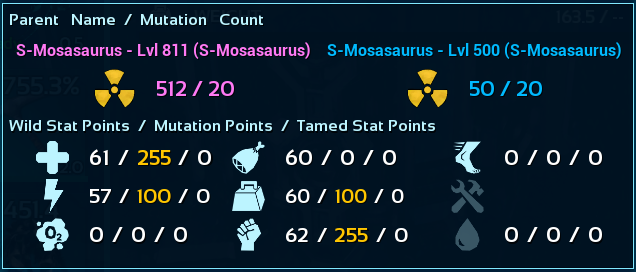
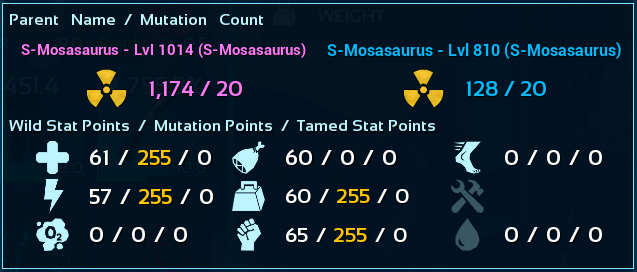
new deinos

diff --git a/JS/script.js b/JS/script.js
@@ -90,6 +90,23 @@ const dinoData = [
       "images/ceratos/cerato5.jpg",
     ]
   },
+  {
+    name: "S-Deinosuchus",
+    level: 1333,
+    mutations: "images/Deinos/deinostats.png",
+    description: "<br/><li>Your purchase includes an ascendant saddle with 200+ armor<li> Buy 2 get 1 free! ",
+    colors: "<br/> <li>Arkade - Black - Black/Red - Black/Green",
+    URL: "<br/> <li> <a href='discord://discord.com/channels/439900471025467403/1373400667246559323'>Selling S-Deinosuchus</a>",
+    prices: [
+      { color: "All Colors: ", value: 5000 },
+    ],
+    colorPhotos: [
+      "images/Deinos/deino1.jpg",
+      "images/Deinos/deino2.jpg",
+      "images/Deinos/deino3.jpg",
+      "images/Deinos/deino4.jpg",
+    ]
+  },
     {
     name: "S-Dire Bear",
     level: 1401,
@@ -172,11 +189,11 @@ const dinoData = [
   },
   {
     name: "Tusoteuthis",
-    level: 869,
+    level: 1355,
     mutations: "images/tusos/statstusos.png",
     description: "<br/><li> Your purchase includes an ascendant saddle with 200+ armor",
     colors: " <br/><li>Random colors for now",
-    URL: "<br/> <li> <a href='discord://discord.com/channels/439900471025467403/1359743577013354626'>Selling Battle Maxed Tusoteuthis</a>",
+    URL: "<br/> <li> <a href='discord://discord.com/channels/439900471025467403/1373403255660613652'>Selling Battle Maxed Tusos (Tusoteuthis)</a>",
     prices: [
       { color: "Random colors for now.", value: 3000 },
     ],
@@ -186,11 +203,11 @@ const dinoData = [
   },
   {
     name: "S-Mosasaurus",
-    level: 810,
+    level: 1324,
     mutations: "images/mosas/statsmosas.png",
-    description: "<br/><li> Your purchase includes an ascendant saddle with 200+ armor",
+    description: "<br/><li> Your purchase includes an ascendant saddle with 200+ armor <li> Buy 2 get 1 free!",
     colors: " <br/><li>Random colors for now",
-    URL: "<br/> <li> <a href='discord://discord.com/channels/439900471025467403/1359743232560599052'>Selling Battle Maxed S-Mosasaurus</a>",
+    URL: "<br/> <li> <a href='discord://discord.com/channels/439900471025467403/1373402244514316338'>Selling Battle Maxed S-Mosa (S-Mosasaurus)</a>",
     prices: [
       { color: "Random colors for now.", value: 6000 },
     ],
